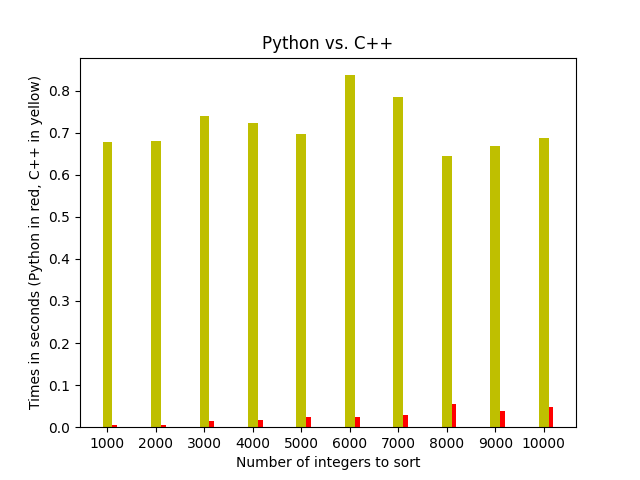
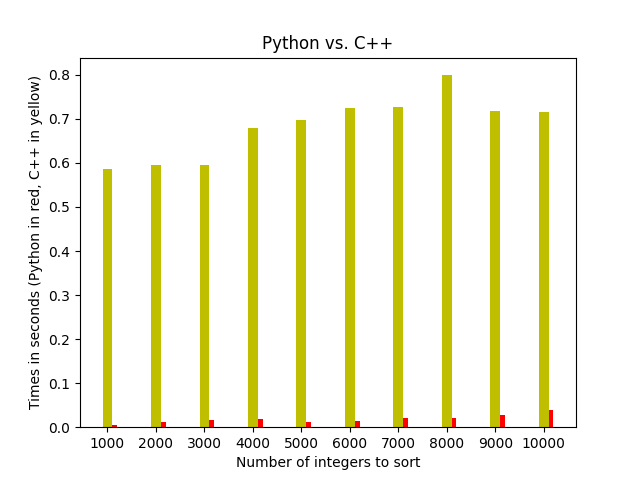
Java selection sort method completed

diff --git a/Main.py b/Main.py
@@ -292,6 +292,48 @@ if runJava:
         print(javaBubbleTimes)
 
 
+    # Selection Sort 1000, 2000, 3000, ..., 10000 integers
+    for size in range(1000, 10001, 1000):
+        # If debug is true, print statement to show where you are in the program
+        if debug:
+             print(f"Let's see how long it takes java to selection sort {size} random integers from a file!")
+        # Start the clock
+        tic = time.time()
+        try:
+            # This is Python's way of calling the command line. We use it to compile the Java files.
+            subprocess.check_output("javac sort_java/SelectionSort.java",stdin=None,stderr=subprocess.STDOUT,shell=True)
+        except subprocess.CalledProcessError as e:
+            # There were compiler errors in SelectionSort.java. Print out the error message and exit the program.
+            print("<p>",e.output,"</p>")
+            raise SystemExit
+
+        # Executes the java file
+        if platform.system() == 'Windows':
+            p = Popen('java sort_java/SelectionSort.java '+str(size), shell=True, stdout=PIPE, stdin=PIPE)
+            # If debug is true, print the size of the vector and first and last ten numbers to demonstrate correct sorting
+            if debug:
+                print(p.stdout.read().decode('utf-8'))
+        else: # Mac and Linux case
+            p = Popen(['java sort_java/SelectionSort.java  '+str(size)], shell=True, stdout=PIPE, stdin=PIPE)
+            # If debug is true, print the size of the vector and first and last ten numbers to demonstrate correct sorting
+            if debug:
+                print(p.stdout.read().decode('utf-8'))
+        
+        # End clock
+        toc = time.time()
+
+        # If debug is true, print the time it took C++ to sort the integers
+        if debug:
+            print(f"Java Selection Sort finished in {(toc - tic):0.6f} seconds")
+
+        # Add the runtime to the list
+        javaSelectionTimes.append(toc-tic)
+
+    # If debug is true, after all test runs, print the list of C++ runtimes
+    if debug:
+        print("Java selection times:")
+        print(javaSelectionTimes)
+
 
 # Graph the results - Bubble Sort
 
@@ -323,7 +365,7 @@ plt.xlabel('Number of integers to sort')
 # Make sure the x-axis tick marks/labels are at each 1000
 plt.xticks(sizes)
 # Label the y axis
-plt.ylabel('Times in seconds (Python in red, C++ in yellow, Java in blue)')
+plt.ylabel('Times in seconds (Python in red, C++ in yellow, Java in green)')
 # Save the graph to a file
 plt.savefig('BattleOfTheBubbleSorts.png')
 # Display the graph in a new window
@@ -341,24 +383,26 @@ cppX = range(1150, 10501, 1000)
 # The third 1 signals to start at the first subplot (aka subplot 1 out of 1)
 ax = plt.subplot(111)
 # If not all of the data has been collected, use dummy data
-if len(pythonSelectionTimes) < 10 or len(cppSelectionTimes) < 10:
+if len(pythonSelectionTimes) < 10 or len(cppSelectionTimes) < 10 or len(javaSelectionTimes) < 10:
     # Plot the dummy values in blue
     ax.bar(sizes, range(1, 11), width=300, color='b', align='center')
 else:
     # Plot the Python bars in red
-    ax.bar(sizes, pythonSelectionTimes, width=200, color='r', align='edge')
+    ax.bar(sizes, pythonSelectionTimes, width=-100, color='r', align='edge')
     # Plot the C++ bars in yellow
-    ax.bar(sizes, cppSelectionTimes, width=200, color='y', align='center')
+    ax.bar(sizes, cppSelectionTimes, width=100, color='y', align='edge')
+    # Plot the Java bars in green
+    ax.bar(sizes, javaSelectionTimes, width=100, color='y', align='center')
 # Set the window title
 plt.gcf().canvas.manager.set_window_title('Speed Test - Selection Sort')
 # Set the graph title
-plt.title('Python vs. C++')
+plt.title('Python, C++, and Java')
 # Label the x axis
 plt.xlabel('Number of integers to sort')
 # Make sure the x-axis tick marks/labels are at each 1000
 plt.xticks(sizes)
 # Label the y axis
-plt.ylabel('Times in seconds (Python in red, C++ in yellow)')
+plt.ylabel('Times in seconds (Python in red, C++ in yellow, Java in green)')
 # Save the graph to a file
 plt.savefig('BattleOfTheSelectionSorts.png')
 # Display the graph in a new window

diff --git a/sort_java/SelectionSort.java b/sort_java/SelectionSort.java
@@ -1,8 +1,8 @@
 import java.io.*;
 import java.util.Scanner;
 
-public class BubbleSort {
-	public static void main(String args[]) throws IOException {
+public class SelectionSort {
+	public static void main(String[] args) throws IOException {
 		int size;
 		// Get command line input
 		if(args.length > 0) {
@@ -28,23 +28,22 @@ public class BubbleSort {
 
 		System.out.println("Looking for size: " + size);
 
-		// Bubble sort algorithm
-		int numPasses = 0, i;
+		//Selection Sort algorithm
+		int swapIndex, i, minIndex;
 		long temp;
-		boolean haveSwapped = true;
-		while(haveSwapped) {
-			haveSwapped = false;
-			for(i = 0; i+1 < numbers.length - numPasses; i++) {
-				//Compare items at indices i and i+1 and swap if necessary
-				if (numbers[i] > numbers[i+1]) {
-					temp = numbers[i];
-					numbers[i] = numbers[i+1];
-					numbers[i+1] = temp;
-					//Update haveSwapped
-					haveSwapped = true;
+		for(swapIndex = 0; swapIndex < numbers.length - 1; swapIndex++) {
+			// Loop through the array starting at swapIndex and keep track of min
+			minIndex = swapIndex;
+			for(i = swapIndex+1; i < numbers.length; i++) {
+				if(numbers[i] < numbers[minIndex]) {
+					// We have a new minimum
+					minIndex = i;
 				}
 			}
-			numPasses++;
+			//Swap min value into swapIndex spot in vector
+			temp = numbers[swapIndex];
+			numbers[swapIndex] = numbers[minIndex];
+			numbers[minIndex] = temp;
 		}
 
 		//Print the first and last ten numbers from the vector to the console
@@ -55,6 +54,5 @@ public class BubbleSort {
 		for(int j = numbers.length - 10; j < numbers.length; j++) {
 			System.out.print(numbers[j] + ", ");
 		}
-
 	}
 }

diff --git a/Sorting.py b/Sorting.py
@@ -103,8 +103,8 @@ def counting_sort(nums, digit):
 
     # Stores the count of each occurance in the count array
     for i in range(0, num):
-        index = (nums[i]/digit)
-        count[int(index%10)] += 1 #increases the count of the number at the digit place by one
+        index = (nums[i]//digit)
+        count[index%10] += 1 #increases the count of the number at the digit place by one
 
     # Update count so it contains the actual position of the digit in the array
     for i in range (1, 10):
@@ -113,9 +113,9 @@ def counting_sort(nums, digit):
     # Builds the output array
     i = num - 1
     while(i >= 0):
-        index = (nums[i]/digit)
-        output[count[int((index)%10)] - 1] = nums[i]
-        count[int((index)%10)] -= 1
+        index = (nums[i]//digit)
+        output[count[index%10] - 1] = nums[i]
+        count[(index%10)] -= 1
         i -= 1
 
     # Copies the output array into nums[] so that the array is now sorted

diff --git a/cpp/SelectionSort.cpp b/cpp/SelectionSort.cpp
@@ -34,7 +34,7 @@ int main(int argc, char* argv[]) {
 
     //Selection Sort the vector
     int swapIndex, i, minIndex;
-    int temp;
+    long temp;
     for (swapIndex = 0; swapIndex < numbers.size()-1; ++swapIndex) {
         // Loop through vector starting at swapIndex and keep track of min
         minIndex = swapIndex;
@@ -59,7 +59,3 @@ int main(int argc, char* argv[]) {
     }
     return 0;
 }
-
-    //TODO: Merge sort the vector
-
-    //TODO: print the first and last ten numbers from the vector to the console
